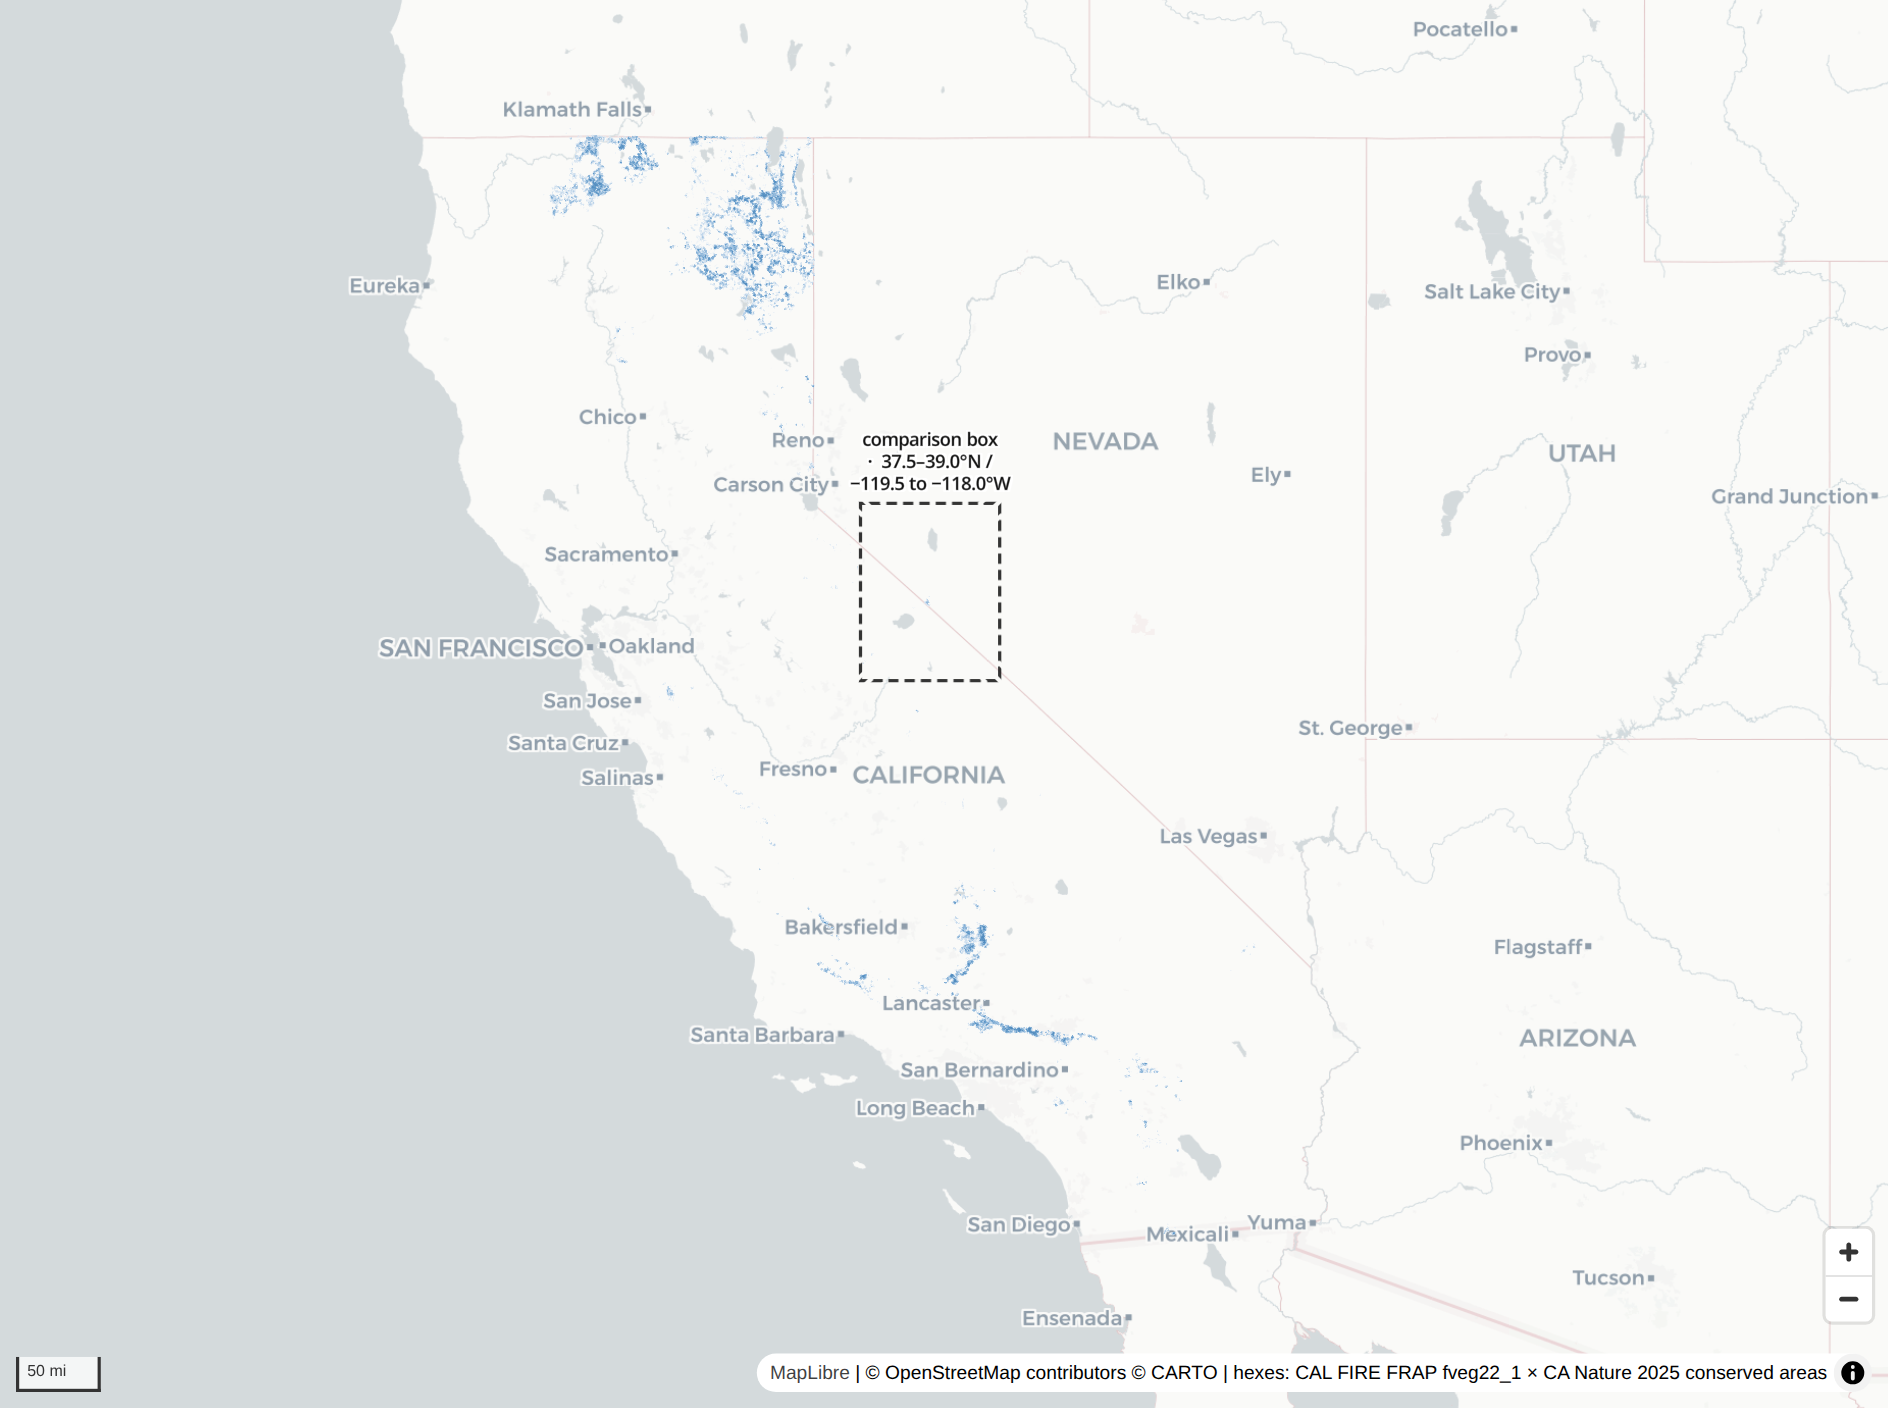
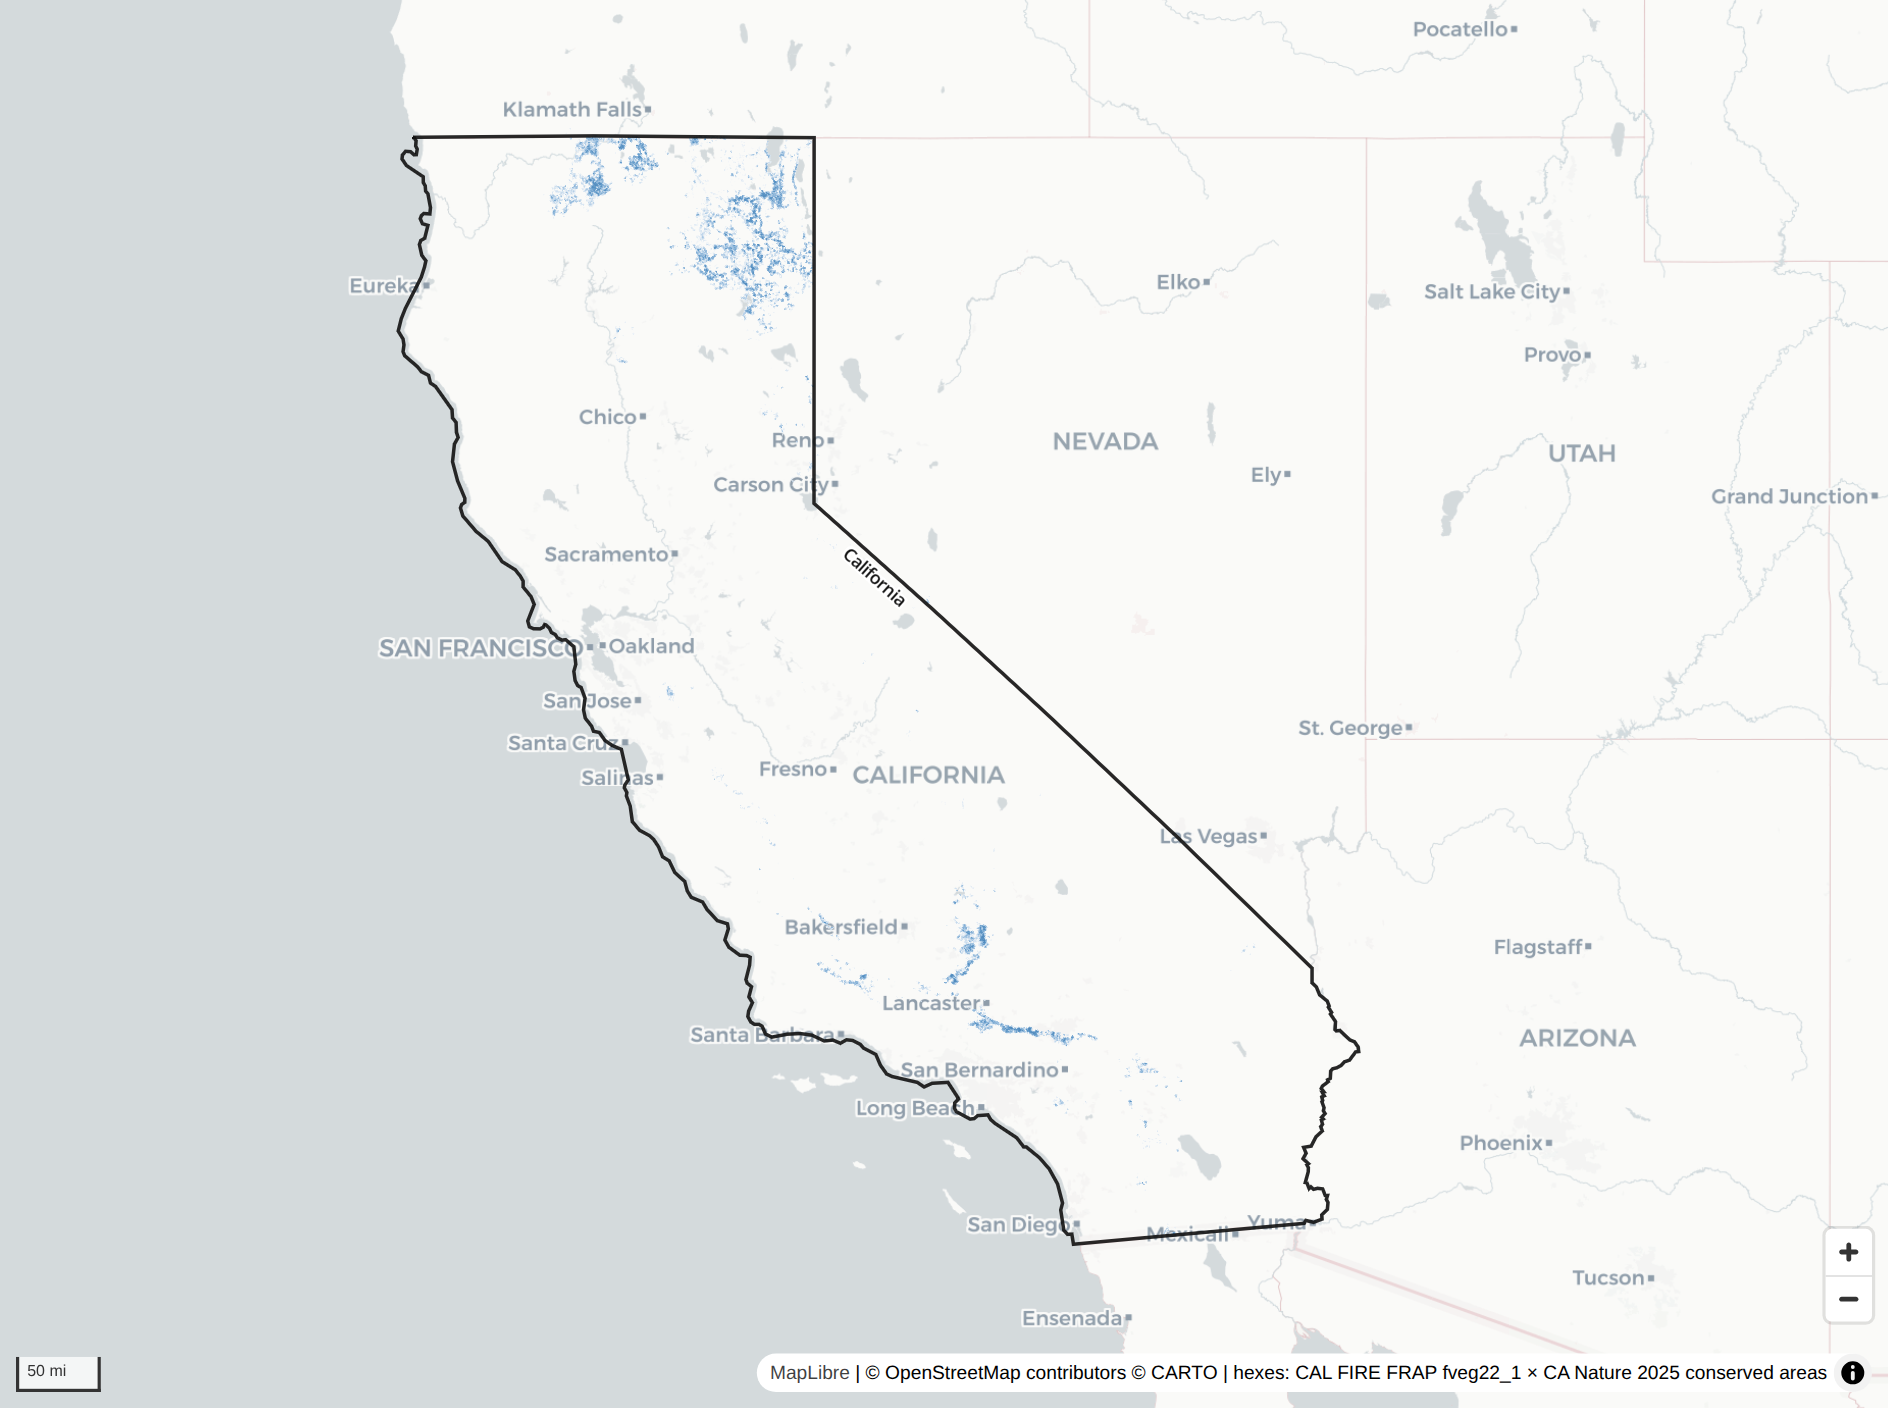
validation map: the PJ divergence is out-of-state data, not a footprint disagreement
Re-targeted the map after finding the real cause. 19.4% of our pinyon-juniper
(335,544 ac) is in Nevada; the CA conserved-areas layer cannot cover it, so it
all scored non-conserved. CA-clipped, PJ is 52.0% GAP 1+2 vs the Assessment's
52.6%.

Replaced the lat/lng comparison box with the actual California boundary
(Census 2024 TIGER, simplified) - the band visibly crosses it. Rewrote the
panel: the earlier 'one region / their layer maps less PJ' framing was wrong.

Same clip also corrects sagebrush, low sage, bitterbrush, conifer woodland
and shrub. Ingest fix filed as data-workflows#505.

diff --git a/validation/pinyon-juniper-map.html b/validation/pinyon-juniper-map.html
@@ -3,7 +3,7 @@
 <head>
 <meta charset="utf-8">
 <meta name="viewport" content="width=device-width, initial-scale=1">
-<title>Pinyon-juniper: where our layer differs from the 2025 Assessment</title>
+<title>Pinyon-juniper: our habitat layer includes 335k acres of Nevada</title>
 <link href="https://unpkg.com/maplibre-gl@4.7.1/dist/maplibre-gl.css" rel="stylesheet">
 <script src="https://unpkg.com/maplibre-gl@4.7.1/dist/maplibre-gl.js"></script>
 <style>
@@ -66,45 +66,59 @@
 <div id="map"></div>
 
 <div id="info" class="panel">
-  <h1>Pinyon-juniper: where the two layers disagree</h1>
+  <h1>Our pinyon-juniper layer includes 335,000 acres of Nevada</h1>
   <div class="sub">CA 30&times;30 Explorer &middot; validation against the 2025 Biodiversity Assessment</div>
 
-  <p>Our pinyon-juniper (CWHR <code>whrnum=40</code>, <code>WHRTYPE='PJN'</code>) comes out
-     <b>41.7%</b> inside 30&times;30 Conservation Areas (GAP&nbsp;1+2). The Assessment reports
-     <b>52.6%</b>.</p>
-
   <div class="key">
-    <b>The gap is one region.</b> Outside the dashed box our PJ is <b>58.2%</b> GAP&nbsp;1+2 &mdash;
-    <i>above</i> your 52.6%. Inside it, 12.7%. The statewide 41.7% is that 58.2% pulled down by
-    617,001&nbsp;ac of largely private PJ on the eastern Sierra&nbsp;/ Great Basin fringe.
+    <b>This was our defect, not a disagreement.</b> Our FVEG-derived habitat layer is not clipped
+    to California. <b>19.4%</b> of its pinyon-juniper &mdash; 335,544&nbsp;ac &mdash; lies in Nevada.
+    Nevada habitat cannot intersect a California conservation unit, so all of it scored as
+    non-conserved and pulled our percentage down.
   </div>
 
+  <p>Turn on <i>Non-conserved pinyon-juniper</i> and follow the band northeast: it runs straight
+     across the state line past Yerington and Hawthorne. That is not California habitat outside
+     conservation units &mdash; it is Nevada.</p>
+
   <table class="nums">
-    <thead><tr><th></th><th>PJ extent</th><th>GAP&nbsp;1+2</th></tr></thead>
+    <thead><tr><th>pinyon-juniper</th><th>acres</th><th>GAP&nbsp;1+2</th></tr></thead>
     <tbody>
-      <tr class="hi"><td>inside box</td><td>617,001 ac</td><td>12.7%</td></tr>
-      <tr><td>rest of CA</td><td>1,114,980 ac</td><td>58.2%</td></tr>
-      <tr><td>statewide</td><td>1,731,980 ac</td><td>41.7%</td></tr>
+      <tr><td>as published</td><td>1,731,980</td><td>41.7%</td></tr>
+      <tr><td>outside CA</td><td>335,544</td><td>0.0%</td></tr>
+      <tr class="hi"><td>California only</td><td>1,396,440</td><td>52.0%</td></tr>
+      <tr><td>2025 Assessment</td><td></td><td>52.6%</td></tr>
     </tbody>
   </table>
 
-  <p><b>Juniper is the control.</b> Same source raster, same crosswalk, same conserved layer,
-     same query &mdash; juniper (<code>whrnum=26</code>) reproduces the Assessment to within 1&nbsp;pp
-     (ours 16.2% vs 17.2%; non-conserved 29.1% vs 28.9%). Switch to the juniper layer: its
-     non-conserved acreage is spread across the Modoc Plateau and the northeast, with no
-     equivalent concentration. That rules out the conserved-areas layer, the overlay method,
-     the GAP apportionment and the crosswalk &mdash; all shared between the two classes.</p>
+  <p>Clipped to California we reproduce the Assessment to <b>0.6&nbsp;pp</b> &mdash; the same
+     discretization noise as every other habitat class.</p>
 
-  <p><b>What we would like to compare.</b> If our numbers hold outside the box, your layer would
-     need roughly <b>156,000&nbsp;ac</b> of PJN inside it against our 617,001 &mdash; a statewide
-     PJN total near 1.27M vs our 1.73M. The single most useful check is your total statewide
-     PJN acreage.</p>
+  <p><b>Juniper was the control that misled us.</b> Juniper (<code>whrnum=26</code>) is 99.9%
+     in-state, so it reproduced the Assessment all along. We read that as proof the pipeline was
+     sound &mdash; it was. The <i>extent</i> was not, and only the classes with out-of-state
+     coverage diverged. Switch to the juniper layer: almost nothing east of the line.</p>
+
+  <p>The same clip corrects a whole family of Great Basin classes that were all reading low:</p>
+
+  <table class="nums">
+    <thead><tr><th></th><th>published</th><th>CA-clipped</th><th>report</th></tr></thead>
+    <tbody>
+      <tr><td>pinyon-juniper</td><td>41.7</td><td>52.0</td><td>52.6</td></tr>
+      <tr><td>sagebrush</td><td>19.9</td><td>22.4</td><td>22.8</td></tr>
+      <tr><td>low sage</td><td>11.6</td><td>13.8</td><td>14.2</td></tr>
+      <tr><td>bitterbrush</td><td>12.1</td><td>13.6</td><td>13.6</td></tr>
+      <tr><td>conifer woodland</td><td>28.8</td><td>32.0</td><td>33.3</td></tr>
+      <tr><td>shrub</td><td>26.6</td><td>27.6</td><td>27.8</td></tr>
+    </tbody>
+  </table>
 
   <p style="color:var(--muted);font-size:11.5px">
-     Box = 37.5&ndash;39.0&deg;N, &minus;119.5 to &minus;118.0&deg;W (Mono Basin, Bodie Hills,
-     Sweetwater Mtns, Bridgeport, Benton). Hexes are H3 resolution&nbsp;9 (~28&nbsp;ac), aggregated
-     up as you zoom out. Source: CAL FIRE FRAP <code>fveg22_1</code> &times; CA Nature
-     <code>conserved-areas-terrestrial-2025</code>. Full analysis and runnable SQL:
+     Hexes are H3 resolution&nbsp;9 (~28&nbsp;ac), aggregated up as you zoom out, and show the data
+     <b>as currently published</b> &mdash; unclipped. Source: CAL FIRE FRAP <code>fveg22_1</code>
+     &times; CA Nature <code>conserved-areas-terrestrial-2025</code>; boundary from US Census 2024
+     (mainland only). Ingest fix:
+     <a href="https://github.com/boettiger-lab/data-workflows/issues/505" target="_blank" rel="noopener">data-workflows#505</a>.
+     Corrected numbers:
      <a href="https://github.com/boettiger-lab/ca-30x30/issues/103" target="_blank" rel="noopener">ca-30x30#103</a>.</p>
 </div>
 
@@ -112,16 +126,17 @@
   <h2>Layer</h2>
   <label class="opt"><input type="radio" name="lyr" value="pj_nc" checked>
     <span class="lbl">Non-conserved pinyon-juniper
-      <span class="desc">PJ outside any conservation unit &mdash; the excess</span></span></label>
+      <span class="desc">the band crosses into Nevada</span></span></label>
   <label class="opt"><input type="radio" name="lyr" value="pj_all">
     <span class="lbl">All pinyon-juniper
       <span class="desc">our full PJ footprint, 1,731,980 ac</span></span></label>
   <label class="opt"><input type="radio" name="lyr" value="jn_nc">
     <span class="lbl">Non-conserved juniper <i>(control)</i>
-      <span class="desc">the class that matches your numbers</span></span></label>
+      <span class="desc">99.9% in-state — reproduces the Assessment</span></span></label>
   <hr>
   <label class="opt"><input type="checkbox" id="boxToggle" checked>
-    <span class="lbl">Show comparison box</span></label>
+    <span class="lbl">Show California boundary
+      <span class="desc">everything beyond it should not be in this layer</span></span></label>
   <div id="legend">
     <div class="bar" id="legendBar"></div>
     <div class="ends"><span>sparse</span><span>densest PJ hex</span></div>
@@ -183,19 +198,9 @@ function paintFor(prop, ramp) {
   return { 'fill-color': byZoom(colorAt), 'fill-opacity': byZoom(opacityAt) };
 }
 
-const BOX = { w: -119.5, e: -118.0, s: 37.5, n: 39.0 };
-const boxGeoJSON = {
-  type: 'Feature', properties: {},
-  geometry: { type: 'Polygon', coordinates: [[
-    [BOX.w, BOX.s], [BOX.e, BOX.s], [BOX.e, BOX.n], [BOX.w, BOX.n], [BOX.w, BOX.s]
-  ]] }
-};
-// Separate point feature so the label is drawn exactly once, rather than repeating
-// along every edge as it would with symbol-placement: 'line'.
-const boxLabelGeoJSON = {
-  type: 'Feature', properties: {},
-  geometry: { type: 'Point', coordinates: [(BOX.w + BOX.e) / 2, BOX.n] }
-};
+// California boundary (US Census 2024 TIGER, simplified, mainland only) — the reference
+// line for this map: hexes east of it are the defect.
+const CA_BOUNDARY = {"type":"MultiPolygon","coordinates":[[[[-120.001014,38.999574],[-118.714201,38.102105],[-117.500117,37.22038],[-116.094166,36.156263],[-114.633487,35.001857],[-114.634382,34.87289],[-114.586842,34.835672],[-114.552682,34.766871],[-114.470477,34.711368],[-114.450506,34.666836],[-114.457985,34.657113],[-114.424202,34.610453],[-114.43681,34.596074],[-114.380838,34.529724],[-114.386699,34.457911],[-114.373719,34.446938],[-114.335372,34.450038],[-114.226107,34.365916],[-114.176909,34.349306],[-114.138282,34.30323],[-114.131211,34.26273],[-114.164648,34.259699],[-114.229715,34.186928],[-114.287294,34.170529],[-114.320777,34.138635],[-114.366517,34.118577],[-114.41168,34.110031],[-114.434181,34.087379],[-114.438266,34.022609],[-114.465867,34.010987],[-114.459258,33.994711],[-114.522734,33.955039],[-114.535676,33.933552],[-114.50792,33.903807],[-114.525872,33.901008],[-114.503017,33.867998],[-114.529883,33.857563],[-114.51997,33.825381],[-114.52805,33.814963],[-114.504863,33.760465],[-114.512348,33.734214],[-114.494197,33.707922],[-114.531523,33.675108],[-114.514057,33.660179],[-114.533194,33.65166],[-114.521845,33.612544],[-114.540617,33.591412],[-114.524215,33.553068],[-114.592369,33.498675],[-114.643302,33.416746],[-114.725282,33.405048],[-114.698035,33.352442],[-114.731223,33.302433],[-114.672088,33.258499],[-114.689541,33.246428],[-114.673626,33.223121],[-114.675359,33.185488],[-114.706488,33.08816],[-114.68902,33.084035],[-114.66506,33.033906],[-114.645979,33.048902],[-114.618788,33.027202],[-114.575161,33.036541],[-114.52013,33.029984],[-114.492938,32.971781],[-114.468605,32.971649],[-114.480925,32.936276],[-114.462929,32.907944],[-114.468971,32.845155],[-114.529633,32.795477],[-114.526856,32.757094],[-114.617395,32.728257],[-114.701582,32.745632],[-114.719497,32.718739],[-117.205051,32.529508],[-117.223302,32.621238],[-117.268789,32.619415],[-117.309239,32.656401],[-117.342,32.840354],[-117.323279,32.903064],[-117.375872,33.075217],[-117.467871,33.212494],[-117.571531,33.312302],[-117.713571,33.408777],[-117.741409,33.410118],[-117.816356,33.490872],[-118.049848,33.620015],[-118.096473,33.653651],[-118.1259,33.697151],[-118.237008,33.690595],[-118.274239,33.663429],[-118.319135,33.659547],[-118.466962,33.725524],[-118.485577,33.753664],[-118.484483,33.803154],[-118.443968,33.839057],[-118.447254,33.84876],[-118.557356,33.987673],[-118.727459,33.980307],[-118.814752,33.947214],[-118.887301,33.987223],[-119.158963,34.040253],[-119.217993,34.062491],[-119.285743,34.140805],[-119.334887,34.236865],[-119.466995,34.29366],[-119.500953,34.326922],[-119.584795,34.36166],[-119.651357,34.366708],[-119.716129,34.336108],[-119.797067,34.365331],[-119.891521,34.357457],[-120.024356,34.409343],[-120.14728,34.422916],[-120.287125,34.417609],[-120.456015,34.391485],[-120.523646,34.419505],[-120.559439,34.488466],[-120.594334,34.504072],[-120.64236,34.503765],[-120.682206,34.525326],[-120.713329,34.57496],[-120.705315,34.621408],[-120.664691,34.696344],[-120.702093,34.748329],[-120.673281,34.838624],[-120.720319,34.869241],[-120.734382,34.901499],[-120.694715,35.028839],[-120.689606,35.098828],[-120.725503,35.113576],[-120.800411,35.116577],[-120.917792,35.187378],[-120.961253,35.249975],[-120.923435,35.348413],[-120.933292,35.392748],[-121.041635,35.41999],[-121.151056,35.516412],[-121.201555,35.58369],[-121.323512,35.624969],[-121.366362,35.680419],[-121.39346,35.763401],[-121.501047,35.842745],[-121.561461,35.943818],[-121.631818,35.978945],[-121.674359,36.064661],[-121.727812,36.129009],[-121.770693,36.162014],[-121.880193,36.210314],[-121.957666,36.285117],[-121.981042,36.419634],[-122.021998,36.508908],[-122.017455,36.537405],[-122.04405,36.578249],[-122.040733,36.60012],[-122.001124,36.647704],[-122.076399,36.910199],[-122.172024,36.942681],[-122.251082,36.985833],[-122.313899,37.054764],[-122.376086,37.065648],[-122.396916,37.109888],[-122.464117,37.177848],[-122.484046,37.249944],[-122.467005,37.349889],[-122.509889,37.441554],[-122.546996,37.457857],[-122.574963,37.499943],[-122.588177,37.579408],[-122.567497,37.639185],[-122.588174,37.789362],[-122.675654,37.848517],[-122.715845,37.845625],[-122.766771,37.865804],[-122.789027,37.893763],[-122.829804,37.910325],[-122.85046,37.945585],[-122.889291,37.974109],[-122.902284,37.977386],[-122.91917,37.954835],[-122.953224,37.941093],[-123.022507,37.942065],[-123.067965,37.958669],[-123.08513,38.008433],[-123.014817,38.149132],[-123.049617,38.214286],[-123.134523,38.296263],[-123.134312,38.345786],[-123.164757,38.388337],[-123.22022,38.441954],[-123.360929,38.510202],[-123.51058,38.68089],[-123.641253,38.764394],[-123.784676,38.893728],[-123.80986,38.961219],[-123.797217,38.989863],[-123.763148,39.00869],[-123.761965,39.041091],[-123.840771,39.187335],[-123.894936,39.348349],[-123.875126,39.494179],[-123.834649,39.549194],[-123.852516,39.592371],[-123.857183,39.674693],[-123.895741,39.711406],[-123.90097,39.780466],[-124.078596,39.972263],[-124.133255,39.999865],[-124.153762,40.063544],[-124.231204,40.093382],[-124.272099,40.13365],[-124.411026,40.225275],[-124.428222,40.258121],[-124.418276,40.314289],[-124.428055,40.361785],[-124.480543,40.428493],[-124.447677,40.529709],[-124.403367,40.61317],[-124.232622,40.869286],[-124.197619,40.950529],[-124.182694,41.001313],[-124.227079,41.046622],[-124.252474,41.134075],[-124.237625,41.165959],[-124.195532,41.184582],[-124.160704,41.289293],[-124.220032,41.302994],[-124.24242,41.3433],[-124.231087,41.368856],[-124.206515,41.384718],[-124.139973,41.381821],[-124.133231,41.432311],[-124.160493,41.543409],[-124.18499,41.565769],[-124.190113,41.60819],[-124.209785,41.635205],[-124.211706,41.681193],[-124.392055,41.772377],[-124.438909,41.824504],[-124.435015,41.856507],[-124.401242,41.885588],[-124.347647,41.883154],[-124.311936,41.858788],[-124.285031,41.859487],[-124.27612,41.903052],[-124.291939,41.928498],[-124.288578,41.969564],[-124.306995,41.992906],[-124.328835,41.998334],[-122.378049,42.009503],[-119.999234,41.994944],[-120.001014,38.999574]]]]};
 
 const map = new maplibregl.Map({
   container: 'map',
@@ -232,19 +237,16 @@ map.on('load', () => {
     });
   }
 
-  map.addSource('box', { type: 'geojson', data: boxGeoJSON });
+  map.addSource('ca', { type: 'geojson', data: { type: 'Feature', properties: {}, geometry: CA_BOUNDARY } });
   map.addLayer({
-    id: 'box-line', type: 'line', source: 'box',
-    paint: { 'line-color': '#111', 'line-width': 2, 'line-dasharray': [2.5, 1.5], 'line-opacity': 0.85 }
+    id: 'box-line', type: 'line', source: 'ca',
+    paint: { 'line-color': '#111', 'line-width': 2.2, 'line-opacity': 0.9 }
   });
-  map.addSource('box-label-pt', { type: 'geojson', data: boxLabelGeoJSON });
   map.addLayer({
-    id: 'box-label', type: 'symbol', source: 'box-label-pt',
+    id: 'box-label', type: 'symbol', source: 'ca',
     layout: {
-      'text-field': 'comparison box  ·  37.5–39.0°N / −119.5 to −118.0°W',
-      'text-font': ['Open Sans Semibold'], 'text-size': 11.5,
-      'text-anchor': 'bottom', 'text-offset': [0, -0.5],
-      'text-allow-overlap': true, 'text-ignore-placement': true
+      'text-field': 'California', 'text-font': ['Open Sans Semibold'], 'text-size': 11,
+      'symbol-placement': 'line', 'symbol-spacing': 600, 'text-offset': [0, 0.8]
     },
     paint: { 'text-color': '#111', 'text-halo-color': '#fff', 'text-halo-width': 2 }
   });
